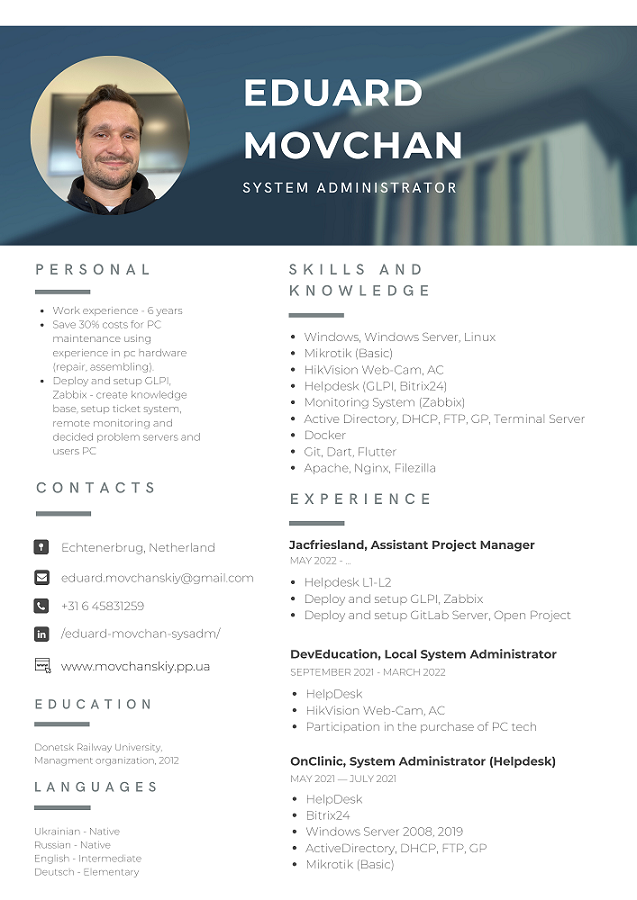
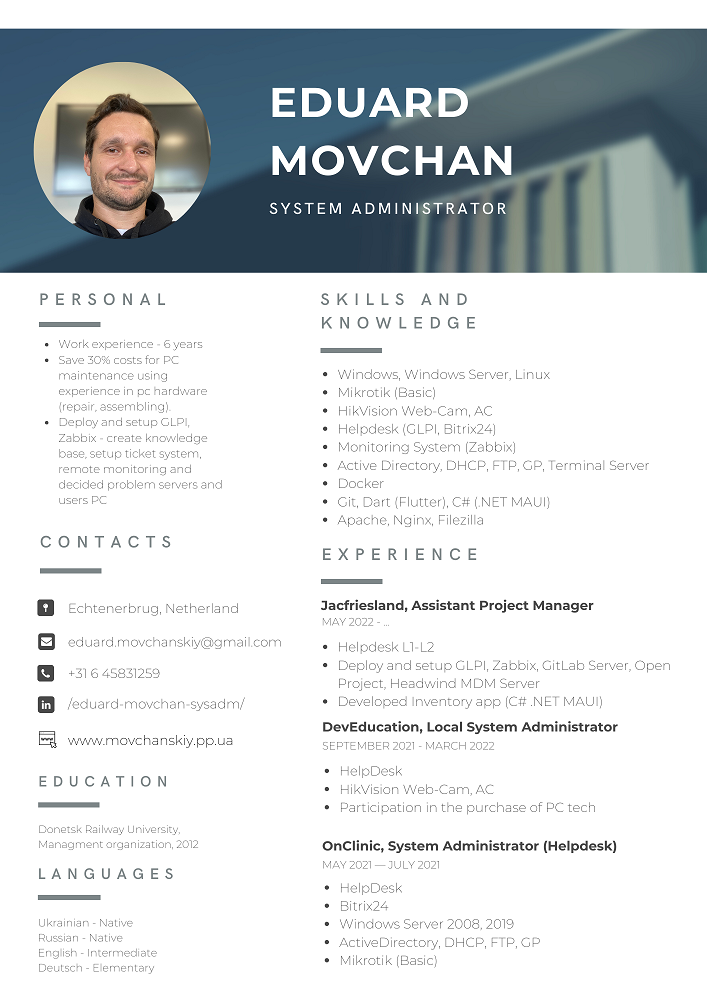
Add info in CV, add button HOME

diff --git a/lib/my_home_page.dart b/lib/my_home_page.dart
@@ -39,8 +39,8 @@ class _MyHomePageState extends State<MyHomePage> {
             text:
                 'Skills: Windows, Windows Server, Linux, MacOS, Android, iOS, '
                 'Active Directory, FTP, SMTP, DHCP, Group Policy, Terminal Server, '
-                'Apache, Nginx, Git, Flutter, Dart, GLPI, Zabbix, Bitrix24, '
-                'HikVision, Mikrotik, GitLab Server, Open Project',
+                'Apache, Nginx, Git, Dart (Flutter), C# (.NET MAUI), GLPI, Zabbix, Bitrix24, '
+                'HikVision, Mikrotik, GitLab Server, Open Project, Headwind MDM',
             style: TextStyle(fontWeight: FontWeight.bold, fontSize: 24),
             scrollAxis: Axis.horizontal,
             crossAxisAlignment: CrossAxisAlignment.start,
@@ -81,7 +81,7 @@ class _MyHomePageState extends State<MyHomePage> {
             Padding(
               padding: EdgeInsets.only(bottom: 20),
               child: SelectableText(
-                'Last updated: 31 Oktober 2022',
+                'Last updated: 02 February 2023',
                 style: TextStyle(fontSize: 24, fontWeight: FontWeight.bold),
               ),
             ),
@@ -190,7 +190,7 @@ class _MyHomePageState extends State<MyHomePage> {
                         style: TextStyle(
                             color: Colors.black54,
                             fontWeight: FontWeight.bold,
-                            fontSize: 18),
+                            fontSize: 16),
                       ),
                     ),
                   ],
@@ -248,7 +248,7 @@ class _MyHomePageState extends State<MyHomePage> {
                         style: TextStyle(
                             color: Colors.black54,
                             fontWeight: FontWeight.bold,
-                            fontSize: 18),
+                            fontSize: 16),
                       ),
                     ),
                   ],

diff --git a/lib/cv.dart b/lib/cv.dart
@@ -8,8 +8,18 @@ class CV extends StatelessWidget {
     double height = MediaQuery.of(context).size.height;
     return Scaffold(
       appBar: AppBar(
-        leading: Icon(Icons.list_alt),
-        title: Text('CV'),
+        leading: IconButton(
+          icon: Icon(Icons.home),
+          onPressed: () => Navigator.of(context).pop(),
+        ),
+        title: Row(mainAxisAlignment: MainAxisAlignment.center,
+            children: [
+          Padding(
+            padding: const EdgeInsets.only(right: 5),
+            child: Icon(Icons.list_alt),
+          ),
+          Text('CV'),
+        ]),
         centerTitle: true,
       ),
       body: SingleChildScrollView(
@@ -23,12 +33,13 @@ class CV extends StatelessWidget {
               ElevatedButton(
                 onPressed: () {
                   downloadFile(
-                      'https://drive.google.com/uc?id=11zyTJ51FBf5oAHxABM5xhwIdji_R4AZH&export=download');
+                      'https://drive.google.com/uc?id=1a1GbjXHV56yUs3r2xhZ8V7X61toyCFNd&export=download');
                 },
                 style: ButtonStyle(
                     backgroundColor:
-                    MaterialStateProperty.all<Color>(Colors.green)),
-                child: Text('Download', style: TextStyle(color: Colors.white, fontSize: 20)),
+                        MaterialStateProperty.all<Color>(Colors.green)),
+                child: Text('Download',
+                    style: TextStyle(color: Colors.white, fontSize: 20)),
               ),
             ],
           ),

diff --git a/lib/certifications.dart b/lib/certifications.dart
@@ -7,8 +7,18 @@ class Certifications extends StatelessWidget {
     double height = MediaQuery.of(context).size.height;
     return Scaffold(
       appBar: AppBar(
-        leading: Icon(Icons.dashboard_outlined),
-        title: Text('Certifications'),
+        leading: IconButton(
+          icon: Icon(Icons.home),
+          onPressed: () => Navigator.of(context).pop(),
+        ),
+        title: Row(mainAxisAlignment: MainAxisAlignment.center,
+            children: [
+          Padding(
+            padding: const EdgeInsets.only(right: 5),
+            child: Icon(Icons.dashboard_outlined),
+          ),
+          Text('Certifications'),
+        ]),
         centerTitle: true,
       ),
       body: SingleChildScrollView(
@@ -18,11 +28,15 @@ class Certifications extends StatelessWidget {
               Container(
                   height: height * 0.8,
                   width: width * 0.9,
-                  child: Image(image: AssetImage('udemy_learn_flutter_certificate.jpg'))),
+                  child: Image(
+                      image:
+                          AssetImage('udemy_learn_flutter_certificate.jpg'))),
               Container(
                   height: height * 0.8,
                   width: width * 0.9,
-                  child: Image(image: AssetImage('lemon_school_javascript_certificate.jpg'))),
+                  child: Image(
+                      image: AssetImage(
+                          'lemon_school_javascript_certificate.jpg'))),
             ],
           ),
         ),

diff --git a/lib/application.dart b/lib/application.dart
@@ -6,8 +6,19 @@ class Application extends StatelessWidget {
   Widget build(BuildContext context) {
     return Scaffold(
       appBar: AppBar(
-        leading: Icon(Icons.app_settings_alt),
-        title: Text('Applications'),
+        leading: IconButton(
+          icon: Icon(Icons.home),
+          onPressed: () => Navigator.of(context).pop(),
+        ),
+        title: Row(mainAxisAlignment: MainAxisAlignment.center,
+          children: [
+            Padding(
+              padding: const EdgeInsets.only(right: 5),
+              child: Icon(Icons.app_settings_alt),
+            ),
+            Text('Applications')
+          ],
+        ),
         centerTitle: true,
       ),
       body: Center(
